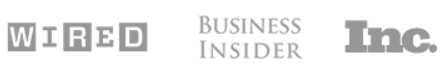
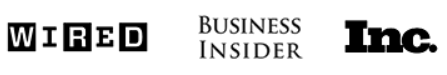
Fix press-coverage images and add opacity to them

diff --git a/assets/css/main.css b/assets/css/main.css
@@ -127,6 +127,7 @@ body,
 
 #press-coverage {
    padding-top:15px;
+   opacity: 0.5;
 }
 
 .press-coverage1 {
@@ -149,7 +150,6 @@ body,
 #press-coverage-title {
    margin:0 auto;
    color:black;
-   opacity: 0.4;
    font-weight:bold;
 }
 
@@ -600,12 +600,14 @@ fieldset[disabled] .btn-green-inverse.focus {
       float:none;
       display:block;
       margin: 0 auto;
+      width:100%
    }
 
    .press-coverage2 img {
       float:none;
       display:block;
       margin: 0 auto;
+      width:100%
    }
 
    footer ul {
